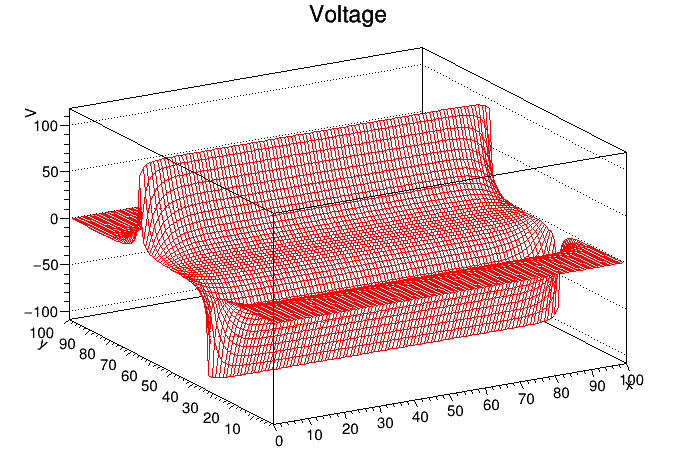
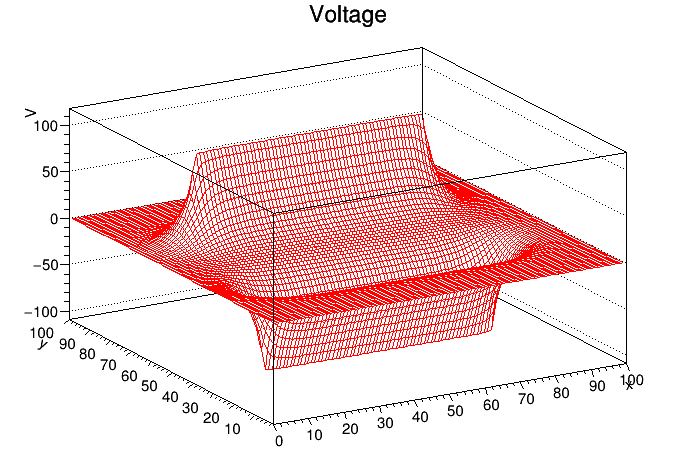
finite length plates

Changed region(s): [[0.1509, 0.2966, 0.4526, 0.8008], [0.5733, 0.2076, 0.8448, 0.7119]]

diff --git a/LaplaceLine2.C b/LaplaceLine2.C
@@ -22,7 +22,7 @@ using std::endl;
 
 // generic code to do one iteration of finite difference method
 // Jacobi Method
-double iterateJ(vector<vector<double>> &V, const double &rho, const double &delta, const int &plateTop, const int &plateBot){
+double iterateJ(vector<vector<double>> &V, const double &rho, const double &delta, const int &plateTop, const int &plateBot, const int &plateLef, const int &plateRig){
   auto Vtmp = V;
   double dVmax=1e-50;
   int nx=V.size();
@@ -31,7 +31,7 @@ double iterateJ(vector<vector<double>> &V, const double &rho, const double &delt
   for (int i=1; i<nx-1; i++){
     for (int j=1; j<ny-1; j++){
       double Vnew = 0.25*(Vtmp[i+1][j]+Vtmp[i-1][j]+Vtmp[i][j+1]+Vtmp[i][j-1]);
-      if(plateBot < j && j < plateTop)
+      if(plateLef <= i && i <= plateRig && plateBot < j && j < plateTop)
 	Vnew += M_PI*(rho-drho*(plateTop-j))*pow(delta,2);
       double dV=fabs(Vnew-V[i][j]);
       dVmax=std::max(dVmax,dV);    // keep track of max change in this sweep
@@ -90,8 +90,10 @@ TGraph2D* LaplaceLine(int maxIter=100, double eps=0.001, int Npts=100, TCanvas *
   double delta = L/(Npts-1);                                 // grid spacing
   int plateTop = Npts/3*2;
   int plateBot = Npts/3;
+  int plateLef = Npts/6;
+  int plateRig = Npts/6*5;
   double rho = 0.5;
-  for (int i=0; i<Npts; i++) {
+  for (int i=plateLef; i<=plateRig; i++) {
     V[i][plateTop] = Vtop;            // set voltage at wire
     V[i][plateBot] = -Vtop;
   }
@@ -107,9 +109,9 @@ TGraph2D* LaplaceLine(int maxIter=100, double eps=0.001, int Npts=100, TCanvas *
   double dV;
   int niter=0;
   do{
-    dV=iterateJ(V, rho, delta, plateTop, plateBot);   // iterate using Jacobi method
+    dV=iterateJ(V, rho, delta, plateTop, plateBot, plateLef, plateRig);   // iterate using Jacobi method
     //dV=iterateGS(V);   // iterate using Gauss-Seidel method
-    for (int i=0; i<Npts; i++) {
+    for (int i=plateLef; i<=plateRig; i++) {
       V[i][plateTop] = Vtop;
       V[i][plateBot] = -Vtop;
     }

diff --git a/LaplaceLine1.C b/LaplaceLine1.C
@@ -84,7 +84,9 @@ TGraph2D* LaplaceLine(int maxIter=100, double eps=0.001, int Npts=100, TCanvas *
   double delta = L/(Npts-1);                                 // grid spacing
   int plateTop = Npts/3*2;
   int plateBot = Npts/3;
-  for (int i=0; i<Npts; i++) {
+  int plateLef = Npts/6;
+  int plateRig = Npts/6*5;
+  for (int i=plateLef; i<=plateRig; i++) {
     V[i][plateTop] = Vtop;            // set voltage at wire
     V[i][plateBot] = -Vtop;
   }
@@ -102,7 +104,7 @@ TGraph2D* LaplaceLine(int maxIter=100, double eps=0.001, int Npts=100, TCanvas *
   do{
     dV=iterateJ(V);   // iterate using Jacobi method
     //dV=iterateGS(V);   // iterate using Gauss-Seidel method
-    for (int i=0; i<Npts; i++) {
+    for (int i=plateLef; i<=plateRig; i++) {
       V[i][plateTop] = Vtop;
       V[i][plateBot] = -Vtop;
     }
